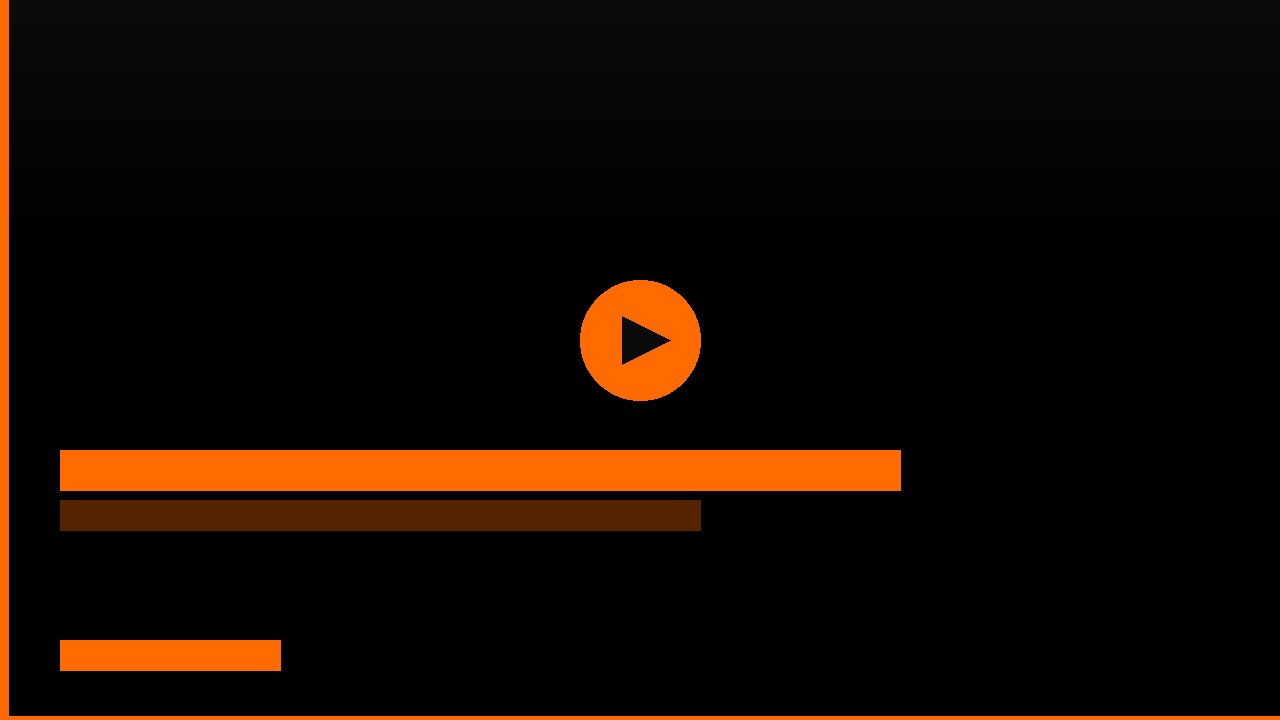
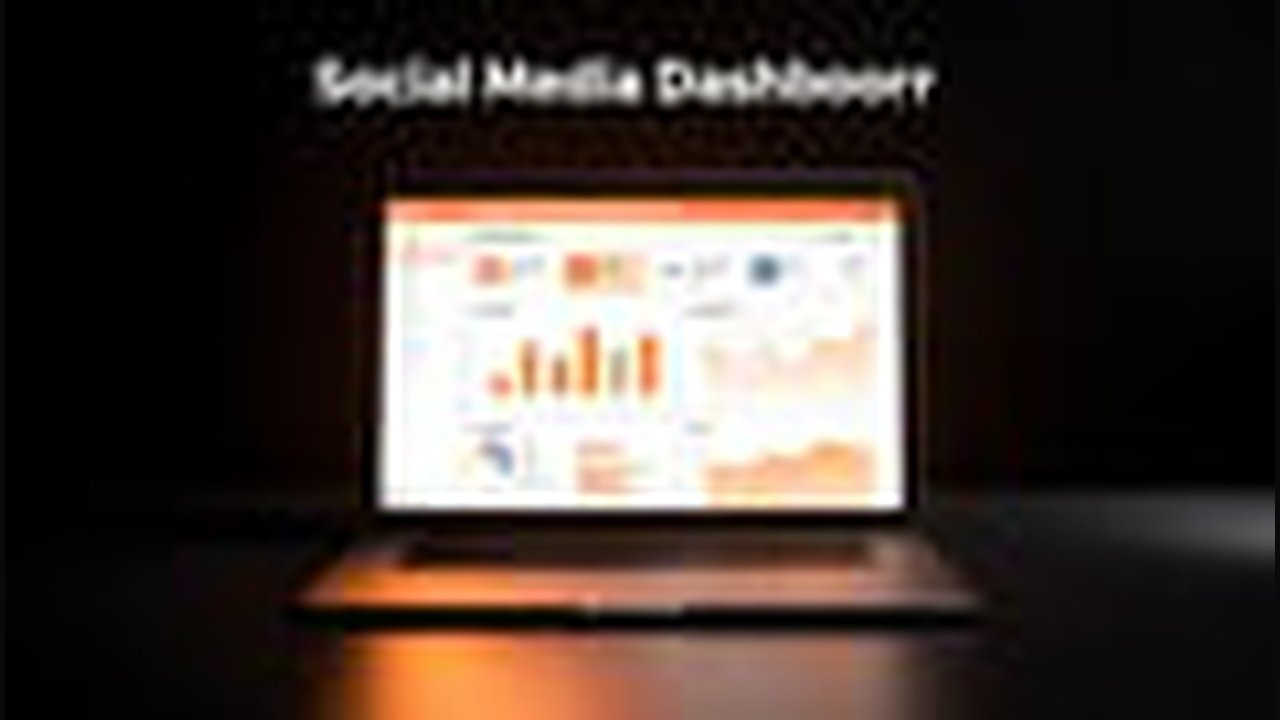
Add real Social Media Dashboard cover image
- images/products/social-media-dashboard.jpg: product card thumbnail from cover art
- images/products/social-media-dashboard-poster.jpg: 1280x720 video poster (black letterbox)
- index.html: homepage card now uses real cover image

Claude-Session: https://claude.ai/code/session_01RFXptRmPRNmaaY82UEQcXY

diff --git a/index.html b/index.html
@@ -226,7 +226,7 @@
 
             <article class="payhip-card">
                 <a href="/social-media-dashboard.html" class="cover-link">
-                    <img src="images/products/social-media-dashboard-poster.jpg" alt="Social Media Dashboard" class="product-img">
+                    <img src="images/products/social-media-dashboard.jpg" alt="Social Media Dashboard" class="product-img">
                 </a>
                 <div class="payhip-info">
                     <h3>Social Media Dashboard</h3>